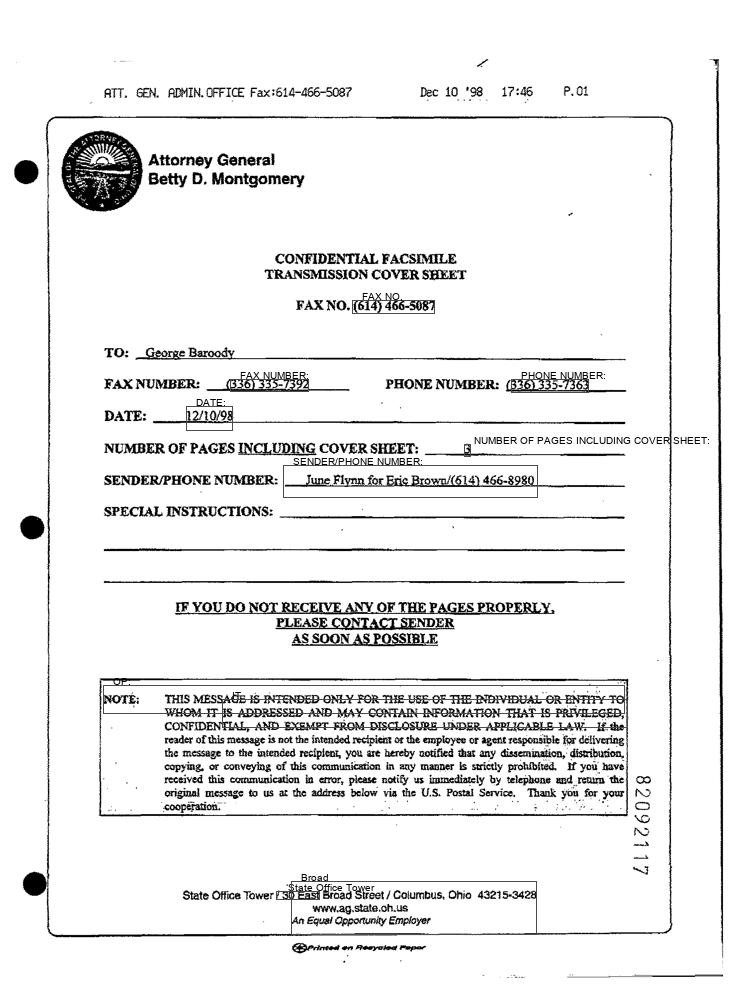
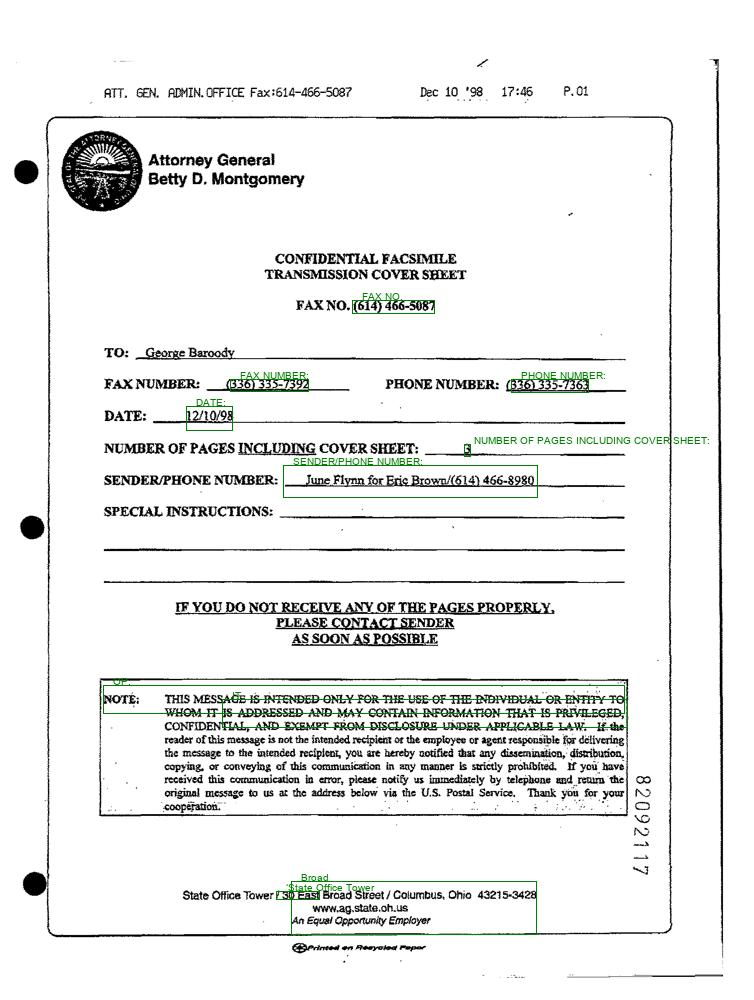
changing the outut

diff --git a/generate_annotations.py b/generate_annotations.py
@@ -204,18 +204,21 @@ def main(img):
     prevtyp=typ
     prevx=x
     prevy=y
-  draw = ImageDraw.Draw(img)
-  for item in key_box.items():
-    box = unnormalize_box(item[1]['box'],width,height)
-    draw.rectangle(box, outline='green')
-    draw.text((box[0]+10, box[1]-10), item[0], outline='green', font=font)
-    filename =  str(im.filename.split('/')[-1].split('.')[0])+'_annotated'+'.jpg'
-    ## saving post processed annnotated image
 
-    im.save((os.path.join('results/final_annotated',filename)))
+  image_2 = img.convert("RGB")
+  draw = ImageDraw.Draw(image_2)
+  width, height = image_2.size
+  for item in key_box.items():
+      box = unnormalize_box(item[1]['box'], width, height)
+      draw.rectangle(box, outline='green')
+      draw.text((box[0] + 10, box[1] - 10), item[0], outline='green', fill='green', font=font)
+      filename = str(im.filename.split('/')[-1].split('.')[0]) + '_annotated' + '.jpg'
+      ## saving post processed annnotated image
+
+      image_2.save((os.path.join('results/final_annotated', filename)))
 
          
-  return img,output
+  return image_2,output
 
 if __name__ == '__main__':
     parser = argparse.ArgumentParser()
